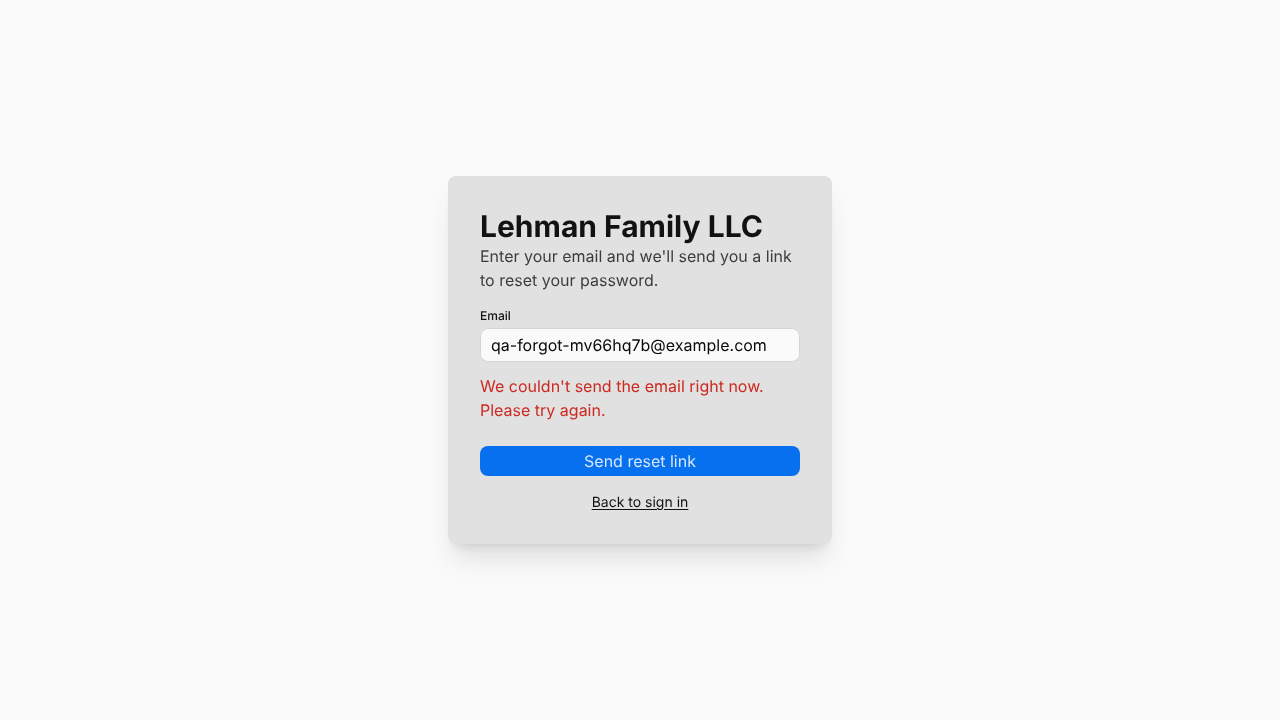
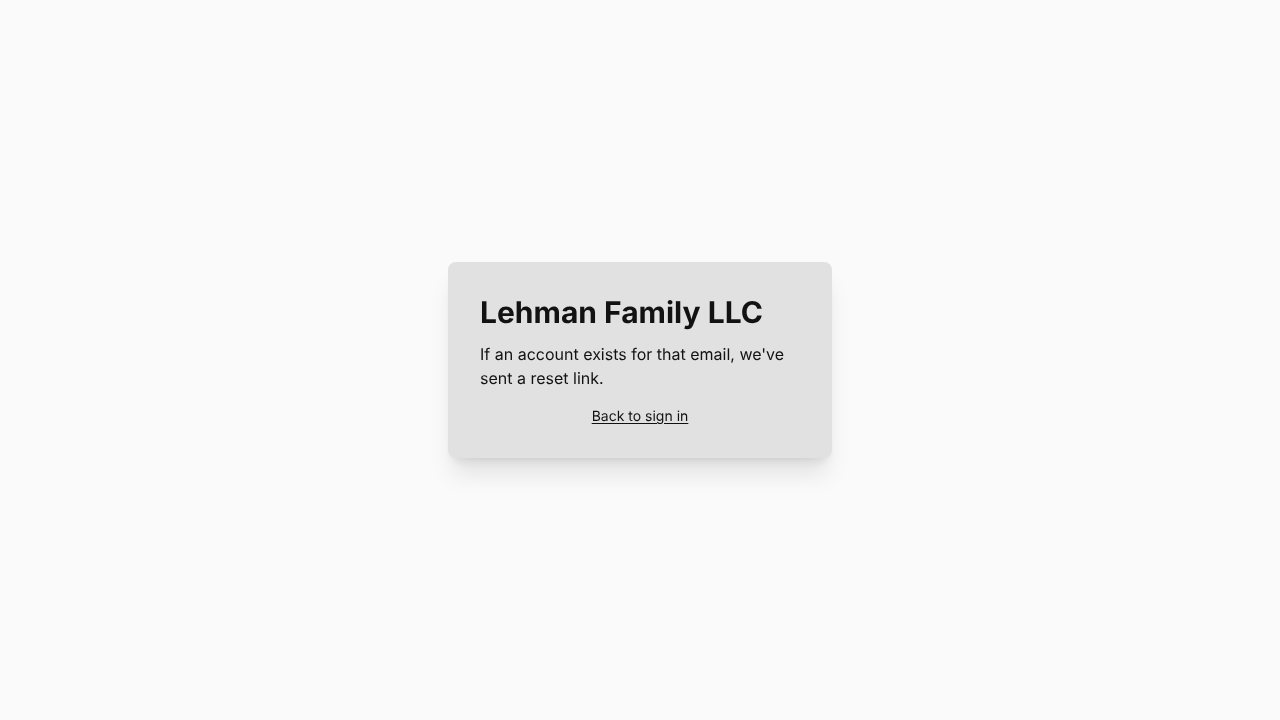
QA evidence cycle 2 (PASS): password-reset-and-signin
Claude-Session: https://claude.ai/code/session_012Ze6orux4NADLTvPMLn5eE

Changed region(s): [[0.3438, 0.2444, 0.6562, 0.7639]]

diff --git a/tests/qa/password-reset-and-signin/extra.spec.ts b/tests/qa/password-reset-and-signin/extra.spec.ts
@@ -1,0 +1,112 @@
+import { test, expect, type Page } from '@playwright/test';
+
+const SHOTS = 'openspec/changes/password-reset-and-signin/qa/screenshots';
+const SENT = "If an account exists for that email, we've sent a reset link.";
+const FAIL = "We couldn't send the email right now. Please try again.";
+const need = (n: string) => {
+	const v = process.env[n];
+	if (!v) throw new Error(`missing env ${n}`);
+	return v;
+};
+const hide = async (page: Page) => {
+	const secrets = [process.env.QA_ADMIN_EMAIL, process.env.QA_TENANT_EMAIL].filter(Boolean) as string[];
+	await page
+		.evaluate((vals) => {
+			document.querySelectorAll('input').forEach((i) => {
+				if (vals.includes((i as HTMLInputElement).value)) (i as HTMLInputElement).style.color = 'transparent';
+			});
+			// Mask any text node showing a QA email.
+			const w = document.createTreeWalker(document.body, NodeFilter.SHOW_TEXT);
+			let n: Node | null;
+			while ((n = w.nextNode())) {
+				for (const v of vals) if (n.nodeValue?.includes(v)) n.nodeValue = n.nodeValue.replaceAll(v, '[qa account]');
+			}
+		}, secrets)
+		.catch(() => undefined);
+};
+
+test.describe('reset for a real account (limited requests)', () => {
+	test('Reset email sent: real account on /forgot shows the generic answer, not the failure message; repeat is limited with same answer', async ({
+		page,
+		request
+	}) => {
+		await page.goto('/forgot');
+		await page.locator('html[data-hydrated]').waitFor({ timeout: 15000 }).catch(() => undefined);
+		await page.getByTitle('Email').fill(need('QA_TENANT_EMAIL'));
+		await page.getByRole('button', { name: 'Send reset link' }).click();
+		await expect(page.getByText(SENT)).toBeVisible({ timeout: 20000 });
+		await expect(page.getByText(FAIL)).toHaveCount(0);
+		await hide(page);
+		await page.screenshot({ path: `${SHOTS}/forgot-reset-email-sent-real-account.png` });
+
+		// Second request within a minute, different case: same answer, still 200.
+		const r = await request.put('/api/signin/reset', { data: { email: need('QA_TENANT_EMAIL').toUpperCase() } });
+		expect(r.status()).toBe(200);
+		expect(await r.json()).toEqual({ status: 'email_sent' });
+		// Un-hydrated variant is covered for unknown addresses in authentication.spec.ts.
+	});
+});
+
+test.describe('forgot page extras', () => {
+	test('Unknown email on /forgot never shows the delivery failure (JS)', async ({ page }) => {
+		await page.goto('/forgot');
+		await page.locator('html[data-hydrated]').waitFor({ timeout: 15000 }).catch(() => undefined);
+		await page.getByTitle('Email').fill(`qa-${Date.now().toString(36)}-unk@example.com`);
+		await page.getByRole('button', { name: 'Send reset link' }).click();
+		await expect(page.getByText(SENT)).toBeVisible({ timeout: 20000 });
+		await expect(page.getByText(FAIL)).toHaveCount(0);
+		await page.screenshot({ path: `${SHOTS}/forgot-same-answer-for-unknown-or-limited-emails.png` });
+	});
+	test('API: malformed or missing email is not a 500 and sends nothing', async ({ request }) => {
+		for (const data of [{}, { email: '' }, { email: 'not-an-email' }]) {
+			const r = await request.put('/api/signin/reset', { data });
+			console.log('api invalid', JSON.stringify(data), r.status());
+			expect(r.status()).toBeLessThan(500);
+		}
+	});
+});
+
+for (const role of ['ADMIN', 'TENANT'] as const) {
+	test(`regression: ${role} signs in and loads every top-level page`, async ({ page }) => {
+		const problems: string[] = [];
+		page.on('console', (m) => {
+			if (m.type() === 'error') problems.push(`console: ${m.text().slice(0, 200)}`);
+		});
+		page.on('pageerror', (e) => problems.push(`pageerror: ${e.message.slice(0, 200)}`));
+		page.on('response', (r) => {
+			if (r.status() >= 400 && r.url().includes('lehman-realty-dev.web.app'))
+				problems.push(`http ${r.status()} ${new URL(r.url()).pathname}`);
+		});
+		await page.goto('/signin');
+		await page.locator('html[data-hydrated]').waitFor({ timeout: 15000 }).catch(() => undefined);
+		await page.getByTitle('Email').fill(need(`QA_${role}_EMAIL`));
+		await page.getByTitle('Password').fill(need(`QA_${role}_PASSWORD`));
+		await page.getByRole('button', { name: 'Sign in' }).click();
+		await page.waitForURL((u) => !u.pathname.startsWith('/signin'), { timeout: 20000 });
+		// Discover nav links.
+		const hrefs = await page.$$eval('a[href^="/"]', (as) =>
+			[...new Set(as.map((a) => (a as HTMLAnchorElement).getAttribute('href')!))].filter(
+				(h) => !h.startsWith('/api') && !h.includes('signout')
+			)
+		);
+		const base = role === 'ADMIN'
+			? ['/', '/admin', '/admin/users', '/admin/properties', '/admin/properties/add', '/admin/maintenance', '/profile', '/insurance', '/payment', '/maintenance']
+			: ['/', '/profile', '/insurance', '/payment', '/maintenance'];
+		const all = [...new Set([...base, ...hrefs])];
+		console.log(role, 'pages:', all.join(' '));
+		const results: string[] = [];
+		for (const p of all) {
+			const before = problems.length;
+			const res = await page.goto(p, { waitUntil: 'networkidle' }).catch((e) => ({ status: () => -1, e }) as any);
+			await page.waitForTimeout(800);
+			const status = res?.status?.() ?? -1;
+			const body = (await page.locator('body').innerText().catch(() => '')).slice(0, 4000);
+			const bad = status >= 400 || /\b(500|Internal Error|Application error)\b/i.test(body.slice(0, 400));
+			results.push(`${p} -> ${page.url().replace(/^https?:\/\/[^/]+/, '')} ${status}${bad ? ' BAD' : ''}${problems.length > before ? ' (+' + (problems.length - before) + ' issues)' : ''}`);
+			if (p === '/' ) { await hide(page); await page.screenshot({ path: `${SHOTS}/regression-${role.toLowerCase()}-home.png` }); }
+		}
+		console.log(role + ' results:\n' + results.join('\n'));
+		console.log(role + ' problems:\n' + [...new Set(problems)].join('\n'));
+		expect(results.filter((r) => r.includes('BAD'))).toEqual([]);
+	});
+}
